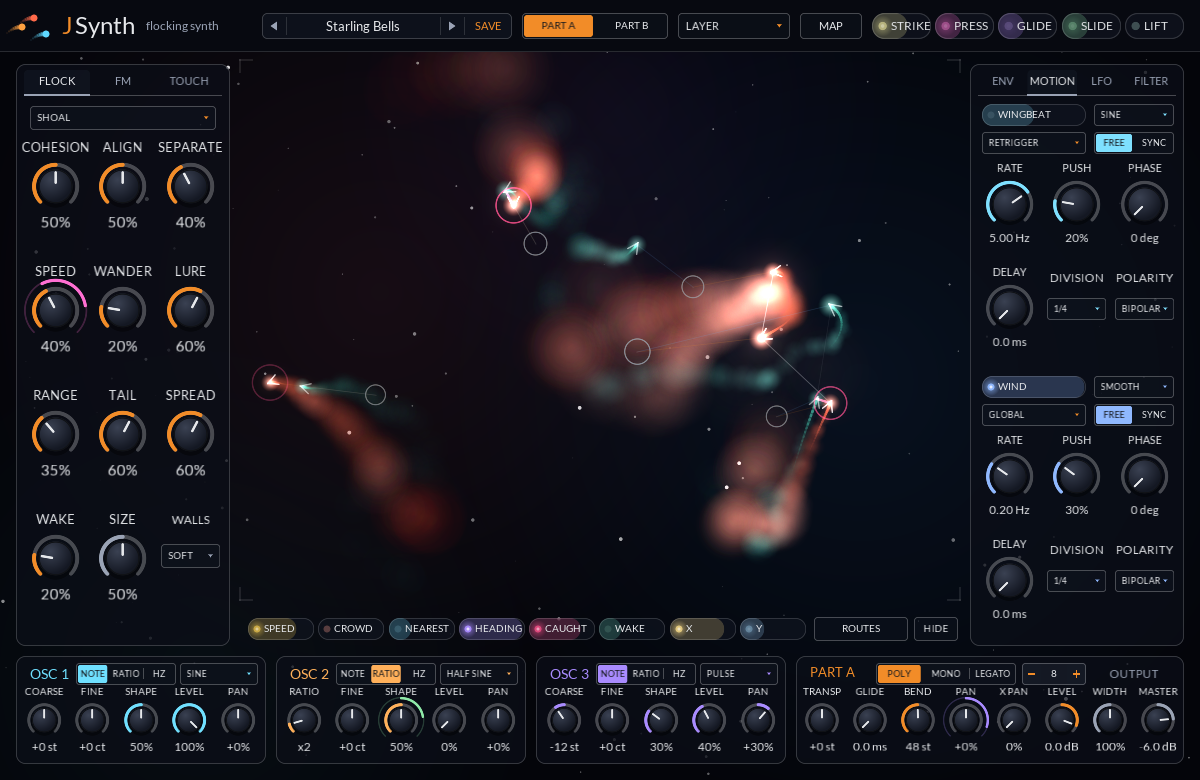
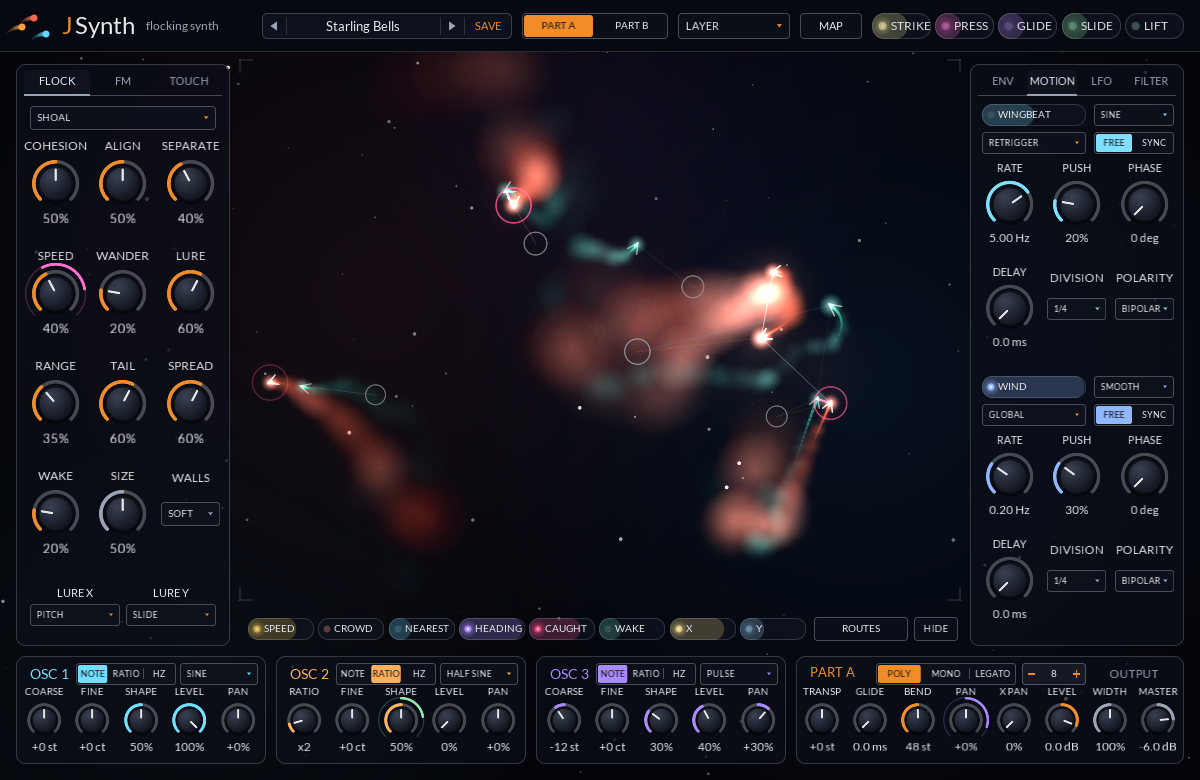
JSynth: choosable lure placement, creatures that live as long as their voice, a strummed four-bar phrase
- Lure X and Lure Y (FLOCK tab) choose what places each note's ring: Pitch
  (with bend), Strike, Press, Slide, Lift, a random place per note, or the
  centre. They start at Pitch and Slide, as before.
- A let-go creature now stays while its voice's release sounds, glowing
  with the amp envelope, and goes soon after the voice ends, rather than
  fading on its own clock.
- jsynth-record takes a phrase: cm7-swell, or four-bar, four chords
  strummed upward with pressure swelling through each bar.

Claude-Session: https://claude.ai/code/session_0172WMyM4BvvV9XCXMVvbh5J

Changed region(s): [[0.0, 0.1846, 0.185, 0.8]]

diff --git a/plugins/jsynth/tools/record.cpp b/plugins/jsynth/tools/record.cpp
@@ -80,27 +80,63 @@ private:
    std::vector<Note> held_;
 };
 
-NoteRef ref(int key) {
+NoteRef ref(int key, int id) {
    NoteRef r;
    r.key = static_cast<int16_t>(key);
    r.channel = 0;
    r.port = 0;
-   r.noteId = key;
+   r.noteId = id;
    r.host = true;
    return r;
 }
 
-// The phrase: a Cm7 (C3 G3 Bb3 Eb4) struck at 0.3 s and held for 15 s while every note's pressure
-// swells from nothing to full and back, then released into its tail.
+// A phrase: notes, each struck and let go on its own sample, with its pressure over time.
 struct Phrase {
-   static constexpr double kStart = 0.3, kHold = 15.0, kTail = 2.5;
-   const int keys[4] = {48, 55, 58, 63};
-   double length() const { return kStart + kHold + kTail; }
-   float pressure(double t) const {
-      if (t < kStart || t > kStart + kHold)
-         return 0.0f;
-      const double s = std::sin(3.14159265358979 * (t - kStart) / kHold);
-      return static_cast<float>(s * s);
+   struct Note {
+      int key;
+      double on, off; // seconds
+      float velocity;
+   };
+   std::vector<Note> notes;
+   double length = 0;
+   // Each held note's pressure at `t` seconds.
+   float (*pressure)(const Phrase &, const Note &, double t) = nullptr;
+
+   // A Cm7 (C3 G3 Bb3 Eb4) struck at 0.3 s and held for 15 s while every note's pressure swells from
+   // nothing to full and back, then released into its tail.
+   static Phrase cm7Swell() {
+      Phrase p;
+      for (int key : {48, 55, 58, 63})
+         p.notes.push_back({key, 0.3, 15.3, 0.7f});
+      p.length = 17.8;
+      p.pressure = [](const Phrase &, const Note &n, double t) {
+         const double s = std::sin(3.14159265358979 * (t - n.on) / (n.off - n.on));
+         return static_cast<float>(s * s);
+      };
+      return p;
+   }
+
+   // Four bars at 84 BPM, a chord a bar: Cm9, Abmaj7, Fm9, G7(b9). Each is strummed upward, its
+   // notes 45 ms apart and a little harder toward the top, and held into the next; pressure swells
+   // through each bar.
+   static Phrase fourBar() {
+      Phrase p;
+      const double bar = 4.0 * 60.0 / 84.0, start = 0.3, strum = 0.045;
+      const std::vector<std::vector<int>> chords = {
+          {48, 55, 58, 62, 63}, {44, 51, 55, 60, 63}, {41, 48, 51, 55, 56}, {43, 53, 59, 62, 68}};
+      for (size_t c = 0; c < chords.size(); ++c) {
+         const double at = start + bar * static_cast<double>(c);
+         const double off = c + 1 < chords.size() ? at + bar + 0.03 : at + bar * 1.5;
+         for (size_t i = 0; i < chords[c].size(); ++i)
+            p.notes.push_back({chords[c][i], at + strum * static_cast<double>(i), off,
+                               0.55f + 0.06f * static_cast<float>(i)});
+      }
+      p.length = start + bar * 4.5 + 2.5;
+      p.pressure = [](const Phrase &, const Note &n, double t) {
+         const double s = std::sin(3.14159265358979 * std::min(1.0, (t - n.on) / (n.off - n.on)));
+         return static_cast<float>(0.15 + 0.7 * s * s);
+      };
+      return p;
    }
 };
 
@@ -110,36 +146,43 @@ void play(RecordHost &host, const Phrase &phrase, int64_t at, int samples, std::
    float l[kBlock], r[kBlock];
    float *main[2] = {l, r};
    float *const *ports[3] = {main, nullptr, nullptr};
-   const int64_t on = static_cast<int64_t>(Phrase::kStart * kRate);
-   const int64_t off = static_cast<int64_t>((Phrase::kStart + Phrase::kHold) * kRate);
+   const auto sampleOf = [](double s) { return static_cast<int64_t>(s * kRate); };
    for (int done = 0; done < samples;) {
       const int64_t now = at + done;
       int n = std::min(kBlock, samples - done);
-      // Land the note on and off on their samples.
-      if (now < on && now + n > on)
-         n = static_cast<int>(on - now);
-      if (now < off && now + n > off)
-         n = static_cast<int>(off - now);
-      if (now == on) {
-         for (int k : phrase.keys)
-            e.noteOn(ref(k), 0.7f);
-         host.held().clear();
-         for (int k : phrase.keys)
-            host.held().push_back({k, 0.0f, 0.0f, 0.5f, 0.7f, 0.0f});
+      // Land every note on and off on its sample.
+      for (const Phrase::Note &note : phrase.notes)
+         for (int64_t edge : {sampleOf(note.on), sampleOf(note.off)})
+            if (now < edge && now + n > edge)
+               n = static_cast<int>(edge - now);
+      // Each note is its own (a chord can hold a key the next one strikes again).
+      const auto id = [&](const Phrase::Note &note) { return static_cast<int>(&note - phrase.notes.data()); };
+      for (const Phrase::Note &note : phrase.notes) {
+         if (now == sampleOf(note.off)) {
+            e.noteOff(ref(note.key, id(note)), 0.3f);
+            auto &held = host.held();
+            for (size_t i = 0; i < held.size(); ++i)
+               if (held[i].note == note.key) {
+                  held.erase(held.begin() + static_cast<long>(i));
+                  break;
+               }
+         }
       }
-      if (now == off) {
-         for (int k : phrase.keys)
-            e.noteOff(ref(k), 0.3f);
-         host.held().clear();
-      }
+      for (const Phrase::Note &note : phrase.notes)
+         if (now == sampleOf(note.on)) {
+            e.noteOn(ref(note.key, id(note)), note.velocity);
+            host.held().push_back({note.key, 0.0f, 0.0f, 0.5f, note.velocity, 0.0f});
+         }
       // Pressure, as an MPE controller sends it: a fresh value each block.
-      const float p = phrase.pressure(static_cast<double>(now) / kRate);
-      if (now >= on && now < off) {
-         for (int k : phrase.keys)
-            e.expression(ref(k), CLAP_NOTE_EXPRESSION_PRESSURE, p);
-         for (EditorHost::Note &h : host.held())
-            h.pressure = p;
-      }
+      const double t = static_cast<double>(now) / kRate;
+      for (const Phrase::Note &note : phrase.notes)
+         if (t >= note.on && t < note.off) {
+            const float p = phrase.pressure(phrase, note, t);
+            e.expression(ref(note.key, id(note)), CLAP_NOTE_EXPRESSION_PRESSURE, p);
+            for (EditorHost::Note &h : host.held())
+               if (h.note == note.key)
+                  h.pressure = p;
+         }
       std::fill(l, l + n, 0.0f);
       std::fill(r, r + n, 0.0f);
       e.render(ports, 0, n);
@@ -197,9 +240,14 @@ int main(int argc, char **argv) {
       return 1;
    }
    RecordHost host(*preset);
-   const Phrase phrase;
+   const std::string phraseName = argc > 3 ? argv[3] : "cm7-swell";
+   if (phraseName != "cm7-swell" && phraseName != "four-bar") {
+      std::fprintf(stderr, "no phrase called %s (cm7-swell or four-bar)\n", phraseName.c_str());
+      return 1;
+   }
+   const Phrase phrase = phraseName == "four-bar" ? Phrase::fourBar() : Phrase::cm7Swell();
    std::vector<float> audio;
-   const int64_t total = static_cast<int64_t>(phrase.length() * kRate);
+   const int64_t total = static_cast<int64_t>(phrase.length * kRate);
    audio.reserve(static_cast<size_t>(total) * 2);
 
    const bool video = out.size() > 4 && out.compare(out.size() - 4, 4, ".mp4") == 0;
@@ -215,7 +263,7 @@ int main(int argc, char **argv) {
       FILE *pipe = popen(encode.c_str(), "w");
       if (!pipe)
          return 1;
-      const int frames = static_cast<int>(phrase.length() * kFps);
+      const int frames = static_cast<int>(phrase.length * kFps);
       int64_t at = 0;
       ScreenshotView view;
       view.leftTab = 1;  // FM: the grid the pressure is moving

diff --git a/plugins/jsynth/src/flock.h b/plugins/jsynth/src/flock.h
@@ -29,10 +29,28 @@ constexpr float kSkyAspect = 4.0f / 3.0f;
 constexpr int kNeighbours = 3;
 
 // Where a held note's lure sits: low notes left and high right (bend moves it), more Slide higher up.
-inline void lureFor(float note, float bend, float slide, float &x, float &y) {
-   const float k = std::clamp((note + bend - 36.0f) / 48.0f, 0.0f, 1.0f);
-   x = (0.07f + 0.86f * k) * kSkyAspect;
-   y = 0.1f + 0.8f * (1.0f - std::clamp(slide, 0.0f, 1.0f));
+// What places a lure along one axis (kLureSourceNames).
+enum LureSource { kLurePitch, kLureStrike, kLurePress, kLureSlide, kLureLift, kLureRandom, kLureCentre };
+
+// A note's place along one axis, 0..1, by `source`: its pitch with bend over four octaves from C2, a
+// touch dimension (strike, press, glide, slide, lift, each 0..1), its own random place (-1..1), or
+// the middle.
+inline float lureAxis(int source, float note, float bend, const float touch[5], float random) {
+   switch (source) {
+   case kLurePitch: return std::clamp((note + bend - 36.0f) / 48.0f, 0.0f, 1.0f);
+   case kLureStrike: return std::clamp(touch[0], 0.0f, 1.0f);
+   case kLurePress: return std::clamp(touch[1], 0.0f, 1.0f);
+   case kLureSlide: return std::clamp(touch[3], 0.0f, 1.0f);
+   case kLureLift: return std::clamp(touch[4], 0.0f, 1.0f);
+   case kLureRandom: return std::clamp(0.5f + 0.5f * random, 0.0f, 1.0f);
+   default: return 0.5f;
+   }
+}
+
+// Where a lure sits in the sky for its places along X and Y (0..1, Y upward), clear of the edges.
+inline void lureAt(float ax, float ay, float &x, float &y) {
+   x = (0.07f + 0.86f * ax) * kSkyAspect;
+   y = 0.1f + 0.8f * (1.0f - ay);
 }
 
 // How a creature flies: its species' flock params, moved by its own routes.
@@ -82,6 +100,10 @@ struct Creature {
    // -1..1, this creature's wingbeat now (its own LFO's value).
    float wing = 0, wingPhase = 0;
    float wanderAngle = 0, wanderTurn = 0;
+   // Whether the engine runs it (the panel's own flock doesn't), and if so whether its voice still
+   // sounds and how loud (its amp envelope): let go, it glows as its sound does and goes when it ends.
+   bool tracked = false, sounding = false;
+   float level = 0;
    // Its own roaming around the lure: two slow orbits at rates and phases of its own, so no two
    // creatures trace the same path and none repeats.
    float roamRate[2] = {}, roamPhase[2] = {};
@@ -137,6 +159,8 @@ public:
    }
    // Its note is up: it flies off as it fades.
    void release(int slot) { creatures[slot].held = false; }
+   // Its voice has ended: it fades out and goes.
+   void silence(int slot) { creatures[slot].sounding = false; }
 
    // Copies the live creatures into `f`, for the panel.
    void show(FlockFrame &f) const;
@@ -159,8 +183,15 @@ public:
       for (Creature &c : creatures) {
          if (!c.alive)
             continue;
-         const float target = c.held ? 0.55f + 0.45f * c.press : c.resting && !plays[c.part] ? 0.3f : 0.0f;
-         const float rate = c.held ? 5.0f : 1.2f;
+         float target = 0.0f, rate = 1.2f;
+         if (c.held)
+            target = 0.55f + 0.45f * c.press, rate = 5.0f;
+         else if (c.sounding)
+            target = std::max(0.04f, 0.55f * c.level), rate = 5.0f; // its release
+         else if (c.resting)
+            target = plays[c.part] ? 0.0f : 0.3f;
+         else if (c.tracked)
+            rate = 6.0f; // its voice has ended
          c.energy += (target - c.energy) * std::min(1.0f, dt * rate);
          // A released creature flies off as it fades, then goes; a resting one stays, dimmed. A
          // resting creature beats its own wings.

diff --git a/plugins/jsynth/src/editor.cpp b/plugins/jsynth/src/editor.cpp
@@ -856,7 +856,14 @@ private:
                    local_.creatures[i].part == part)
                   slot = i;
             float lx, ly;
-            lureFor(static_cast<float>(n.note), n.bend, n.timbre, lx, ly);
+            const float touch[kTouchCount] = {n.strike, n.pressure, 0.0f, n.timbre, n.lift};
+            // A random place of its own, the same each time the note is played.
+            const float random = std::sin(n.note * 12.9898f) * 2.0f - 1.0f;
+            const auto axis = [&](FlockParam p) {
+               return lureAxis(static_cast<int>(host_.paramValue(partId(part, flockParam(p))) + 0.5), static_cast<float>(n.note),
+                               n.bend, touch, random);
+            };
+            lureAt(axis(kLureX), axis(kLureY), lx, ly);
             if (slot < 0) {
                for (int i = 0; i < kVoiceSlots && slot < 0; ++i)
                   if (!claimed[i] && !local_.creatures[i].alive)
@@ -1566,7 +1573,7 @@ private:
          auto &behaviour = dropdown(flockParam(kBehaviour), c, {30, 106, 186, 24});
          tips_.add(behaviour, "SHOAL flies with its own kind, SCATTER keeps apart, HUNT chases the other species "
                               "and FLEE runs from it.");
-         const auto g = ui::grid({22, 138, 202, 496}, 3, 4);
+         const auto g = ui::grid({22, 138, 202, 440}, 3, 4);
          knob(flockParam(kCohesion), "COHESION", c, g[0], "Pull toward the middle of the neighbours.");
          knob(flockParam(kAlignment), "ALIGN", c, g[1], "Turn to fly the way the neighbours fly.");
          knob(flockParam(kSeparation), "SEPARATE", c, g[2], "Keep clear of the nearest.");
@@ -1578,6 +1585,16 @@ private:
          knob(flockParam(kTailSpread), "SPREAD", c, g[8], "How far the ink blooms as it ages.");
          knob(flockParam(kWake), "WAKE", c, g[9], "How much a creature stirs the ink it flies through, and so "
                                                    "how much WAKE the others feel.");
+         // What places each note's lure, the ring its creature is pulled to.
+         for (int axis = 0; axis < 2; ++axis) {
+            const float x = 30 + axis * 96.0f;
+            label({x, 586, 90, 14}, axis == 0 ? "LURE X" : "LURE Y");
+            auto &lure = dropdown(flockParam(axis == 0 ? kLureX : kLureY), c, {x, 604, 90, 22});
+            tips_.add(lure, axis == 0 ? "What places a note's ring left to right: PITCH (with bend), a touch, "
+                                        "RANDOM per note, or CENTRE."
+                                      : "What places a note's ring bottom to top: SLIDE (CC 74), another touch, "
+                                        "PITCH, RANDOM per note, or CENTRE.");
+         }
          if (part == 0) {
             part_ = -1;
             knob(kSkySize, "SIZE", kDim, g[10], "How big the sky is, so how far apart the flocks can spread.");

diff --git a/plugins/jsynth/src/params.h b/plugins/jsynth/src/params.h
@@ -193,6 +193,8 @@ enum FlockParam : clap_id {
    kTailLength,   // how long the ink tail lasts
    kTailSpread,   // how far the ink blooms as it ages
    kWake,         // how much flying through another creature's ink stirs this one
+   kLureX,        // what places a note's lure left to right (a LureSource)
+   kLureY,        // and bottom to top
 };
 
 // A route: kRouteSource (Off for none), kRouteDestination (an index into destinations()) and its
@@ -249,6 +251,9 @@ inline const std::vector<std::string> kPolarityNames = {"Bipolar", "Unipolar"};
 // from it.
 inline const std::vector<std::string> kBehaviourNames = {"Shoal", "Scatter", "Hunt", "Flee"};
 inline const std::vector<std::string> kWallNames = {"Soft", "Wrap", "Open"};
+// What places a held note's lure along one axis of the sky: its pitch (with bend), one of its touch
+// dimensions, a random place per note, or the middle.
+inline const std::vector<std::string> kLureSourceNames = {"Pitch", "Strike", "Press", "Slide", "Lift", "Random", "Centre"};
 // Route sources. Off is no route. Speed to Y are the flock's own: how fast this creature flies, how
 // many neighbours it has, how near the nearest is, which way it heads, whether a hunter has it, how
 // much ink it is flying through, and where it is in the sky (left to right, and bottom to top).
@@ -535,6 +540,8 @@ inline void addPart(Builder &b, int part) {
    b.add(id(flockParam(kTailLength)), "Tail Length", fl, 0.0, 1.0, 0.5, kMod, Unit::Percent);
    b.add(id(flockParam(kTailSpread)), "Tail Spread", fl, 0.0, 1.0, 0.5, kMod, Unit::Percent);
    b.add(id(flockParam(kWake)), "Wake", fl, 0.0, 1.0, 0.2, kMod, Unit::Percent);
+   b.choice(id(flockParam(kLureX)), "Lure X", fl, kLureSourceNames, 0, kGlobalChoice);
+   b.choice(id(flockParam(kLureY)), "Lure Y", fl, kLureSourceNames, 3, kGlobalChoice);
 
    // The starting routes: Env 2 opens Filter 1, and Press opens it too and makes the creature fly
    // faster. Nothing the flock does reaches the sound unless a route or a BETWEEN CREATURES knob says

diff --git a/plugins/jsynth/src/engine.h b/plugins/jsynth/src/engine.h
@@ -695,8 +695,12 @@ private:
          const float a = v.fresh ? 1.0f : 1.0f - std::exp(-tickSeconds / 0.006f);
          for (int k = 0; k < 8; ++k)
             v.flockSources[k] += (src[k] - v.flockSources[k]) * a;
-         lureFor(static_cast<float>(v.ref.key), bend, v.touch[3], c.lureX, c.lureY);
+         const float note = static_cast<float>(v.ref.key);
+         lureAt(lureAxis(choice(part, flockParam(kLureX)), note, bend, v.touch, v.randomValue),
+                lureAxis(choice(part, flockParam(kLureY)), note, bend, v.touch, v.randomValue), c.lureX, c.lureY);
          c.press = v.touch[1];
+         c.tracked = c.sounding = true;
+         c.level = v.env[0].level();
       }
 
       // Routes, from the sources as they were at the last tick; then envelopes 2 and 3 at control
@@ -1400,7 +1404,10 @@ private:
       }
       if (!restart) {
          float lx, ly;
-         lureFor(static_cast<float>(ref.key), 0.0f, timbre, lx, ly);
+         const float touch[kTouchCount] = {velocity, pressure, 0.0f, timbre, 0.0f};
+         const float note = static_cast<float>(ref.key);
+         lureAt(lureAxis(choice(part, flockParam(kLureX)), note, 0.0f, touch, v.randomValue),
+                lureAxis(choice(part, flockParam(kLureY)), note, 0.0f, touch, v.randomValue), lx, ly);
          flock_.hatch(slot, part, lx, ly);
          flock_.creatures[slot].params.read([&](clap_id o) { return plain(part, o); });
       }
@@ -1439,6 +1446,7 @@ private:
          return;
       v.active = false;
       flock_.release(slot);
+      flock_.silence(slot);
       if (!v.ref.host)
          return;
       for (int i = 0; i < kVoiceSlots; ++i)

diff --git a/plugins/jsynth/tests/test_engine.cpp b/plugins/jsynth/tests/test_engine.cpp
@@ -254,6 +254,27 @@ int main() {
       JCLAP_CHECK_EQ(e.activeVoices(), 0);
    }
 
+   // A creature lives as long as its voice: through a long release after its note is let go, and
+   // gone soon after the voice ends.
+   {
+      Params p;
+      p.setPart(0, envParam(0, kEnvRelease), timeValue(3000));
+      Engine e;
+      e.prepare(kRate, {p.values.get(), p.mods.get()});
+      const auto played = [&] {
+         int n = 0;
+         for (int i = 0; i < kVoiceSlots; ++i)
+            n += e.flock().creatures[i].alive;
+         return n;
+      };
+      render(e, 96000, 256, {{100, Event::On, 60, 0.8f}, {4800, Event::Off, 60, 0.0f}});
+      JCLAP_CHECK_EQ(e.activeVoices(), 1);
+      JCLAP_CHECK_EQ(played(), 1);
+      render(e, 48000 * 12, 256, {});
+      JCLAP_CHECK_EQ(e.activeVoices(), 0);
+      JCLAP_CHECK_EQ(played(), 0);
+   }
+
    // Every factory preset sounds, finite and under full scale.
    for (const Preset &preset : factoryPresets()) {
       Params p;

diff --git a/plugins/jsynth/README.md b/plugins/jsynth/README.md
@@ -69,8 +69,10 @@ The 48 factory presets run in six categories from the fastest envelopes to the s
 patch with no routes at all and works up to ones the flock plays: Neighbour FM, Bite, and routes
 from the flock's sources. Nothing from the flock reaches the sound unless a preset (or you) routes it.
 
-`jsynth-record out.wav|out.mp4 [preset]` (built with the tools) plays a held Cm7 whose pressure swells
-up and back over 15 seconds through a preset, and writes the audio, or a video of the panel with it.
+`jsynth-record out.wav|out.mp4 [preset] [cm7-swell|four-bar]` (built with the tools) plays a phrase
+through a preset and writes the audio, or a video of the panel with it: a held Cm7 whose pressure
+swells up and back over 15 seconds, or four strummed chords (Cm9, Abmaj7, Fm9, G7b9) with the
+pressure swelling through each bar.
 
 ## Params
 
